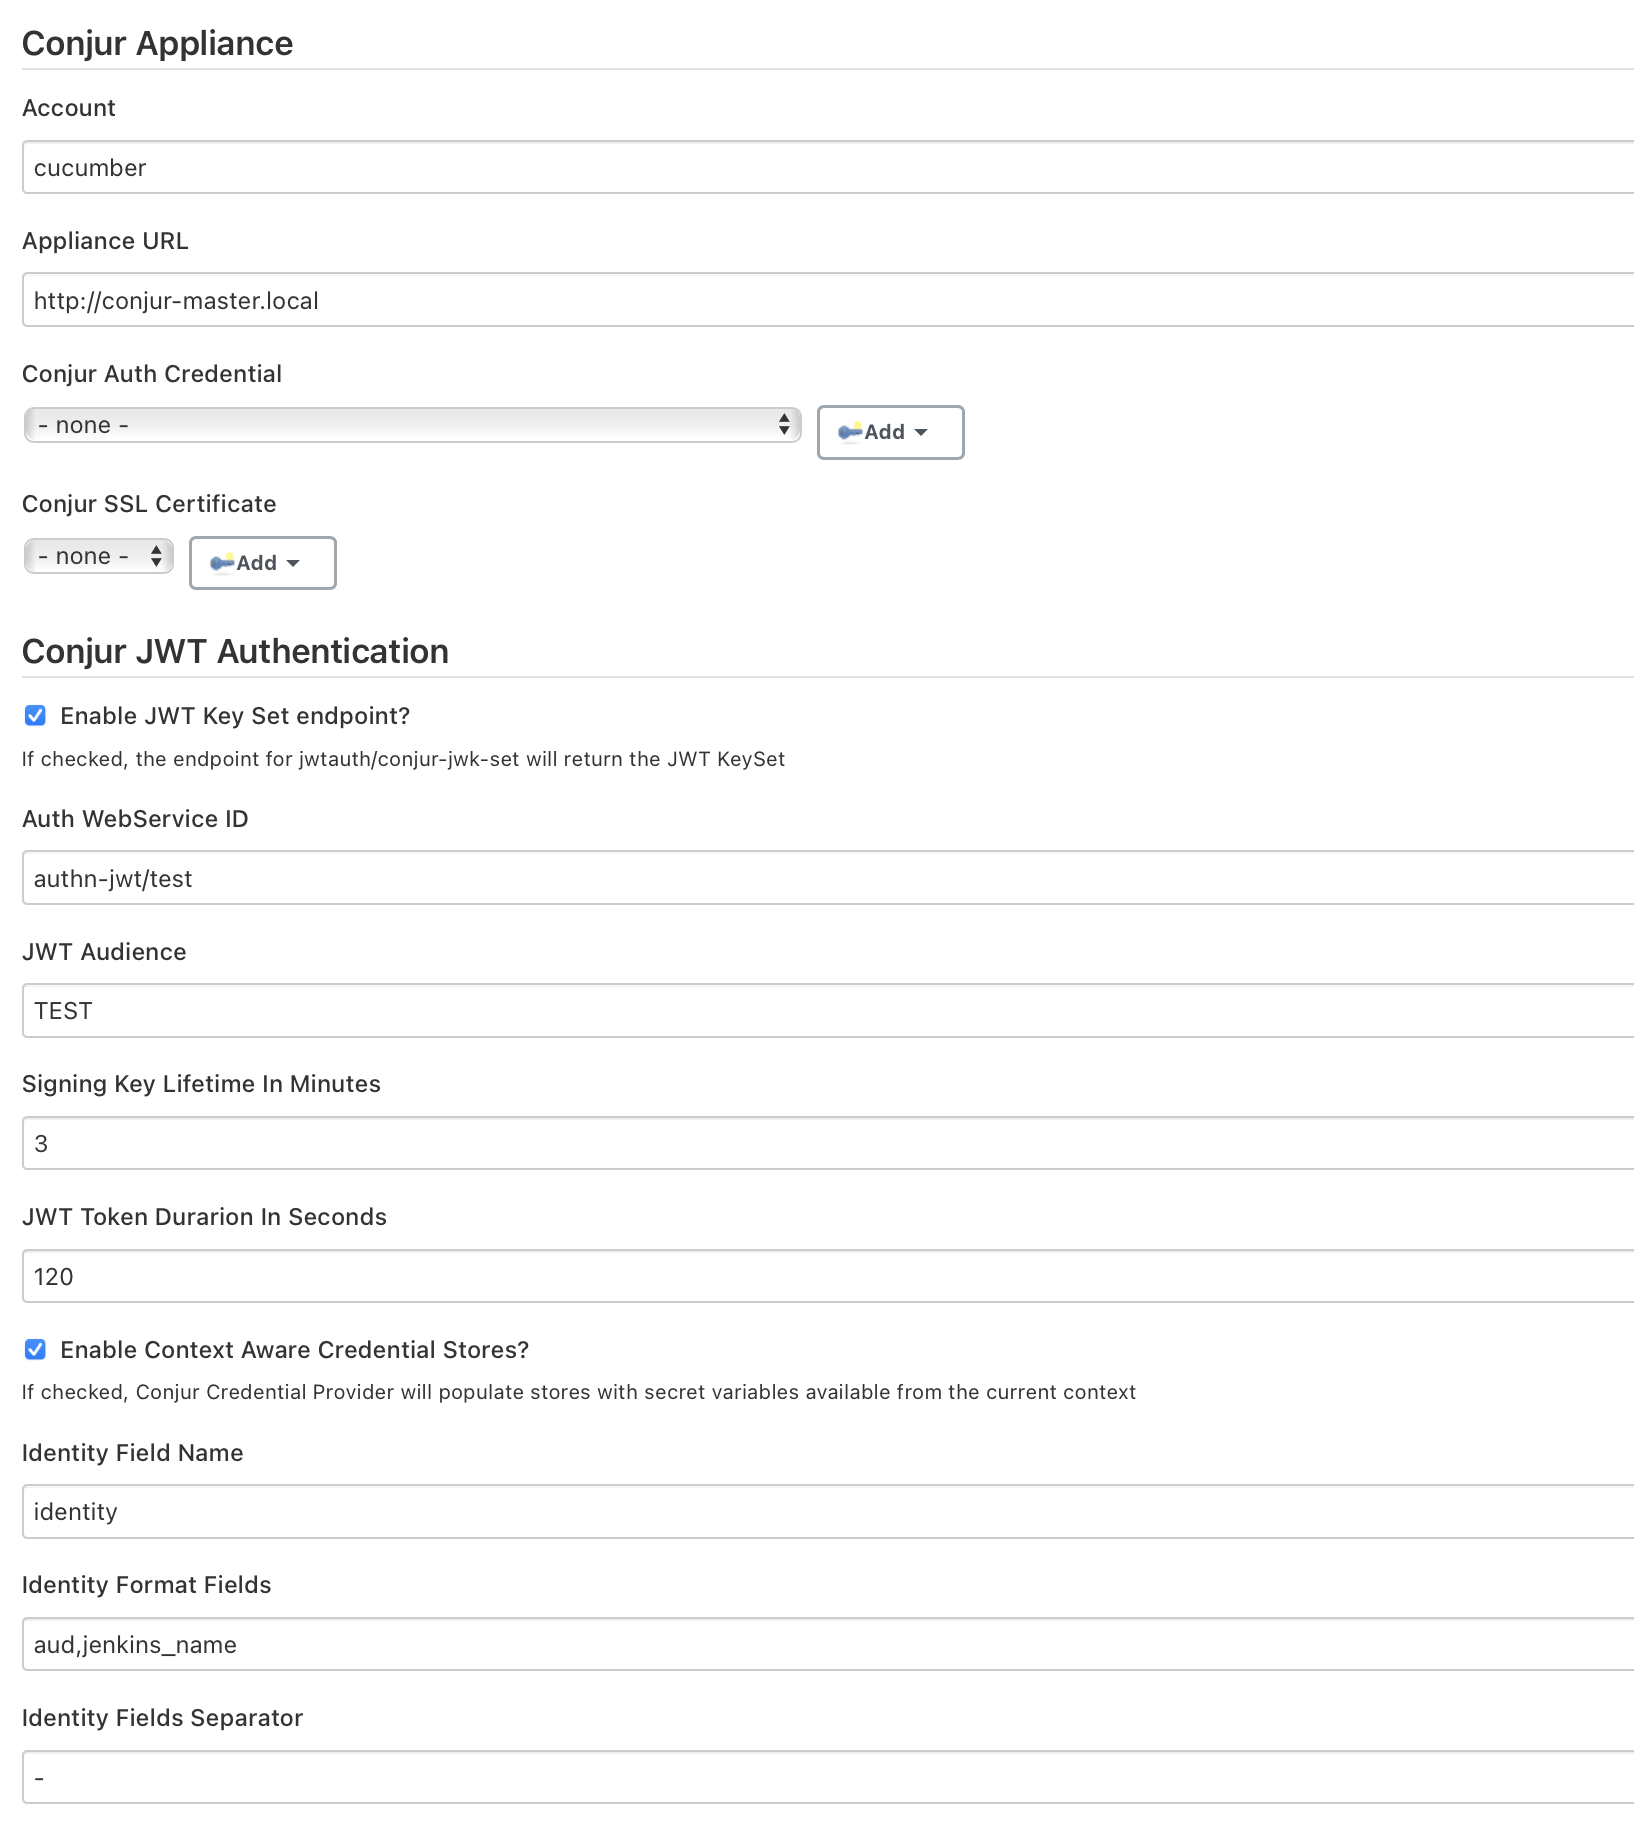
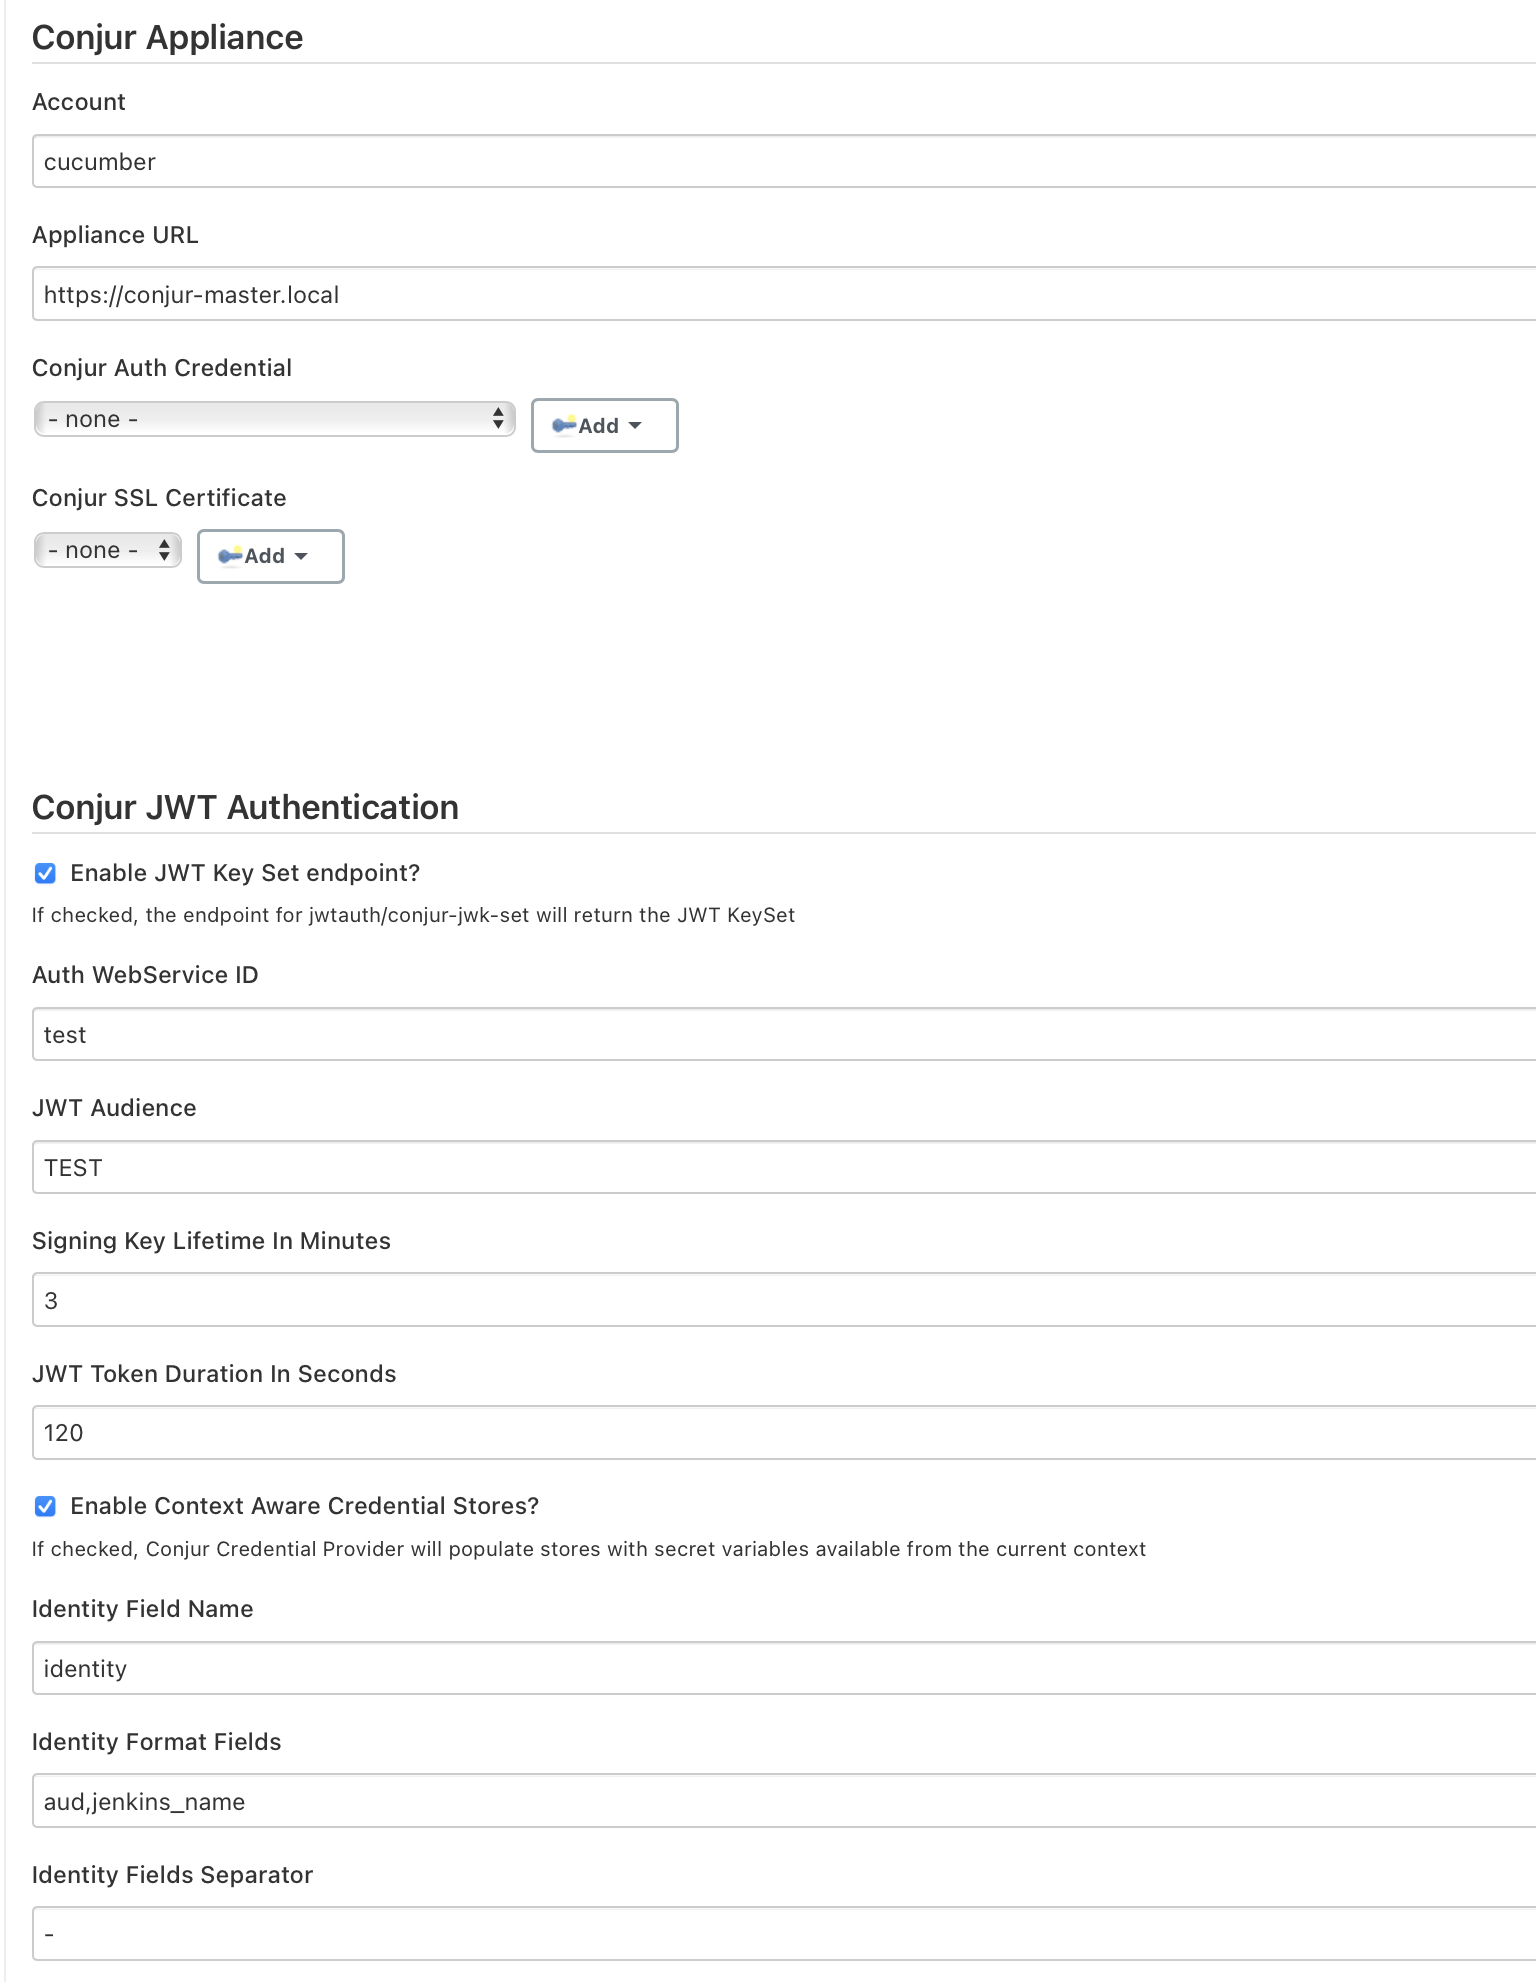
1.0.7 Update
- JWT token issuer is set to the root URL of the Jenkins instance
- WebService ID for the authentication can be either the service id or authenticator_type/service_id (authn-jwt/id)
- Warning/error on validation for Key and Token TTL

diff --git a/src/main/java/org/conjur/jenkins/jwtauth/impl/JwtToken.java b/src/main/java/org/conjur/jenkins/jwtauth/impl/JwtToken.java
@@ -66,7 +66,7 @@ public class JwtToken {
             jsonWebSignature.setKeyIdHeaderValue(key.getId());
             jsonWebSignature.setAlgorithmHeaderValue(AlgorithmIdentifiers.RSA_USING_SHA256);
             jsonWebSignature.setHeader(HeaderParameterNames.TYPE, "JWT");
-            LOGGER.log(Level.FINEST, "Return: " + jsonWebSignature.getCompactSerialization());
+            // LOGGER.log(Level.FINEST, "Return: " + jsonWebSignature.getCompactSerialization());
             return jsonWebSignature.getCompactSerialization();
         } catch (JoseException e) {
             String msg = "Failed to sign JWT token: " + e.getMessage();
@@ -81,7 +81,9 @@ public class JwtToken {
  
     public static String getToken(String pluginAction, Object context) {
         LOGGER.log(Level.FINE, "***** Getting Token");
-        return getUnsignedToken(pluginAction, context).sign();
+        JwtToken unsignedToken = getUnsignedToken(pluginAction, context);
+        LOGGER.log(Level.FINEST, "Claims:\n{0}", unsignedToken.claim.toString(4));
+        return unsignedToken.sign();
     }
 
     public static JwtToken getUnsignedToken(String pluginAction, Object context) {
@@ -105,7 +107,11 @@ public class JwtToken {
             //     email = p.getAddress();
         }
         // Plugin plugin = Jenkins.get().getPlugin("blueocean-jwt");
-        String issuer = "conjur-jwt";
+        String issuer = Jenkins.get().getRootUrl();
+        if (issuer.substring(issuer.length() - 1).equals("/")) {
+            issuer = issuer.substring(0, issuer.length() - 1);
+        }
+        LOGGER.log(Level.FINEST, "RootURL => {0}", Jenkins.get().getRootUrl());
 
         JwtToken jwtToken = new JwtToken();
         jwtToken.claim.put("jti", UUID.randomUUID().toString().replace("-",""));

diff --git a/src/main/java/org/conjur/jenkins/configuration/GlobalConjurConfiguration.java b/src/main/java/org/conjur/jenkins/configuration/GlobalConjurConfiguration.java
@@ -1,16 +1,23 @@
 package org.conjur.jenkins.configuration;
 
 import java.io.Serializable;
+import java.util.logging.Level;
 import java.util.logging.Logger;
 
 import javax.annotation.Nonnull;
 
 import org.conjur.jenkins.api.ConjurAPIUtils;
+import org.kohsuke.stapler.AncestorInPath;
 import org.kohsuke.stapler.DataBoundSetter;
+import org.kohsuke.stapler.QueryParameter;
+import org.kohsuke.stapler.interceptor.RequirePOST;
 
 import hudson.Extension;
+import hudson.model.AbstractItem;
 import hudson.remoting.Channel;
+import hudson.util.FormValidation;
 import jenkins.model.GlobalConfiguration;
+
 
 /**
  * Example of Jenkins global configuration.
@@ -37,6 +44,25 @@ public class GlobalConjurConfiguration extends GlobalConfiguration implements Se
 	static Logger getLogger() {
 		return Logger.getLogger(GlobalConjurConfiguration.class.getName());
 	}
+
+
+
+	public FormValidation doCheckTokenDurarionInSeconds(@AncestorInPath AbstractItem anc,
+														@QueryParameter("tokenDurarionInSeconds") String tokenDurarionInSeconds,
+														@QueryParameter("keyLifetimeInMinutes") String keyLifetimeInMinutes) {
+		try {
+			int tokenttl = Integer.parseInt(tokenDurarionInSeconds);
+			int keyttl = Integer.parseInt(keyLifetimeInMinutes);
+			if (tokenttl > keyttl*60) {
+				return FormValidation.error("Token cannot last longer than key");
+			} else {
+				return FormValidation.ok();
+			}
+		} catch (NumberFormatException e) {
+			return FormValidation.error("Key lifetime and token duration must be numbers");
+		}
+	}
+
 
 	/** @return the singleton instance */
 	@Nonnull

diff --git a/src/main/java/org/conjur/jenkins/api/ConjurAPI.java b/src/main/java/org/conjur/jenkins/api/ConjurAPI.java
@@ -105,9 +105,10 @@ public class ConjurAPI {
 						conjurAuthn.account, URLEncoder.encode(conjurAuthn.login, "utf-8")))
 				.post(RequestBody.create(MediaType.parse("text/plain"), conjurAuthn.apiKey)).build();
 		} else if (conjurAuthn.authnPath != null & conjurAuthn.apiKey != null) {
-			LOGGER.log(Level.FINE, "Authenticating with Conjur (JWT)");
+			String authnPath = conjurAuthn.authnPath.indexOf("/") == -1 ? "authn-jwt/" + conjurAuthn.authnPath : conjurAuthn.authnPath;
+			LOGGER.log(Level.FINE, "Authenticating with Conjur (JWT) authnPath={0}", authnPath);
 			request = new Request.Builder()
-				.url(String.format("%s/%s/%s/authenticate", conjurAuthn.applianceUrl, conjurAuthn.authnPath,
+				.url(String.format("%s/%s/%s/authenticate", conjurAuthn.applianceUrl, authnPath,
 						conjurAuthn.account))
 				.post(RequestBody.create(MediaType.parse("text/plain"), conjurAuthn.apiKey)).build();
 

diff --git a/src/main/java/org/conjur/jenkins/credentials/ConjurCredentialProvider.java b/src/main/java/org/conjur/jenkins/credentials/ConjurCredentialProvider.java
@@ -107,7 +107,6 @@ public class ConjurCredentialProvider extends CredentialsProvider {
     public ConjurCredentialStore getStore(ModelObject object) {
 
         GlobalConjurConfiguration globalConfig = GlobalConfiguration.all().get(GlobalConjurConfiguration.class);
-        LOGGER.log(Level.FINE, "**** GlobalConjurConfiguration ==> " + globalConfig);
         if (globalConfig == null || !globalConfig.getEnableJWKS() || !globalConfig.getEnableContextAwareCredentialStore()) {
             LOGGER.log(Level.FINE, "No Conjur Credential Store (Content Aware)");
             return null;

diff --git a/src/main/java/org/conjur/jenkins/credentials/CredentialsSupplier.java b/src/main/java/org/conjur/jenkins/credentials/CredentialsSupplier.java
@@ -62,7 +62,7 @@ public class CredentialsSupplier implements Supplier<Collection<StandardCredenti
 			// // Retrieve secret from Conjur
 			// String secretString = ConjurAPI.getSecret(client, conjurConfiguration, authToken, this.variablePath);
 			// result = secretString;
-            LOGGER.log(Level.FINEST, "authToken=" + authToken);
+            // LOGGER.log(Level.FINEST, "authToken=" + authToken);
 
             ConjurAPI.ConjurAuthnInfo conjurAuthn = ConjurAPI.getConjurAuthnInfo(conjurConfiguration, null, getContext());
 

diff --git a/README.md b/README.md
@@ -32,7 +32,7 @@ Once enabled, any job that runs from Jenkins where a Conjur Login Credential has
 
 You need to define the following as well:
 
-* Auth WebService ID: The Service ID of your JWT Authenticator webservice. [See doc here](https://docs.cyberark.com/Product-Doc/OnlineHelp/AAM-DAP/Latest/en/Content/Developer/Conjur_API_JWT_Authenticator.htm)
+* Auth WebService ID: The Service ID of your JWT Authenticator webservice. [See doc here](https://docs.cyberark.com/Product-Doc/OnlineHelp/AAM-DAP/Latest/en/Content/Developer/Conjur_API_JWT_Authenticator.htm). This could be either the service id or authenticator_type/service_id (authn-jwt/id)
 * JWT Audience: the aud value in the JWT Token
 * Signing Key Lifetime in Minutes: For how long will the signing key for JWT Tokens will be valid, and exposed via the JWT key set endpoint
 * JWT Token Duration In Seconds: This will the lifetime of any JWT token generated via the conjur-credentials plugin
@@ -40,6 +40,8 @@ You need to define the following as well:
 * Identity Format Fields: Comma separated list of JWT Claim fields to be concatenated for the value of the Identity Field. 
 * Identity Fields Separator: The character(s) to be used in the concatenation of the format fields. 
 * Enable Context Aware Credential Stores: Please see following section. 
+
+**Note:** CyberArk recommends keeping the token and key TTL values the minimum possible based on context. 
 
 ### How to obtain JWT Token Claims
 

diff --git a/CHANGELOG.md b/CHANGELOG.md
@@ -4,6 +4,11 @@ All notable changes to this project will be documented in this file.
 The format is based on [Keep a Changelog](http://keepachangelog.com/en/1.0.0/)
 and this project adheres to [Semantic Versioning](http://semver.org/spec/v2.0.0.html).
 
+##[1.0.7] - 2021-10-05
+- JWT token issuer is set to the root URL of the jenkins instance
+- WebService ID for the authentication can be either the service id or authenticator_type/service_id (authn-jwt/id)
+- Warning/error on validation for Key and Token TTL 
+
 ##[1.0.6] - 2021-09-27
 - Updated README.md 
 - Added "JWT Token Claims" button to configuration page to obtain referecence claims to be used by JWT Authenticator
